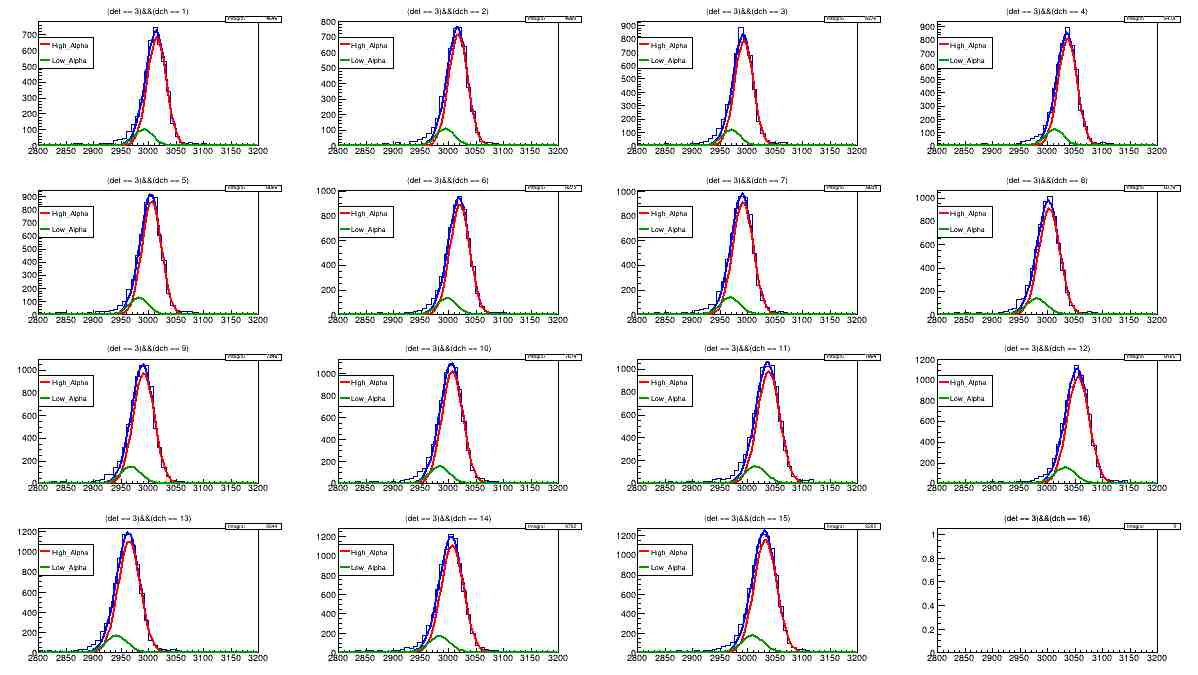
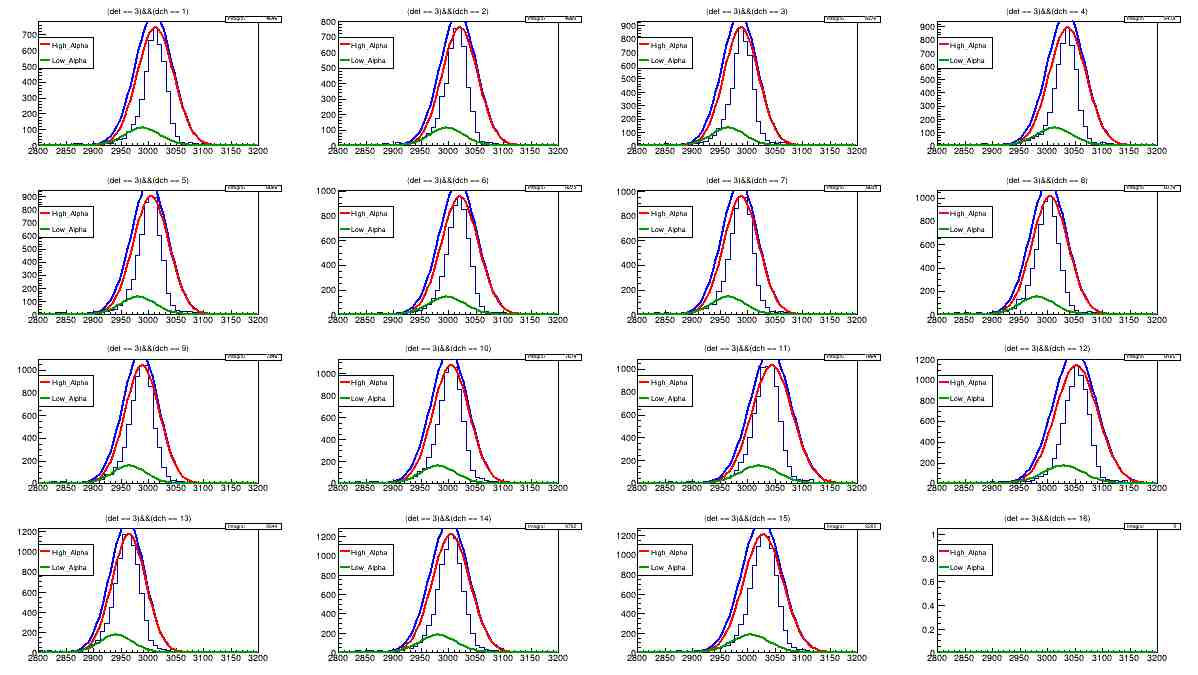
240815 v.7

diff --git a/prac_root/two_peak_240811.c b/prac_root/two_peak_240811.c
@@ -4,15 +4,28 @@ Double_t LowAlpha = 5.443; // [MeV]
 Double_t FxTwoAlpha(Double_t *xp, Double_t *par);
 void Convert2APParameters(double *par, double &mean1, double &sigma1, double &amplitude1, double &mean2, double &sigma2, double &amplitude2);
 
+struct TwoDoubles{
+	double a;
+	double b;
+};
+TwoDoubles MatrixOperation(double mean1, double mean2){
+	TwoDoubles result;
+	double a = (HighAlpha - LowAlpha)/ (mean1 - mean2);
+	double b = HighAlpha - mean1*a;
+	result.a = a;
+	result.b = b;		
+	return result;
+}	
 void two_peak_240811(){
-
+	std::cout << std::setprecision(30);
 
 	TFile *file = new TFile("RUN511.ch.root","read");
 	TTree *tree = (TTree *)file -> Get("channels");
 	
 	TFile *write = new TFile("constant.root","RECREATE");	
 	TTree *t1 = new TTree("t1","constants");
-	
+	fstream constant_file;
+	constant_file.open("constant.txt",ios::out);	
 	Double_t a,b;
 	Short_t detector,channel;
 	t1 -> Branch("a",&a,"a/D");
@@ -20,7 +33,6 @@ void two_peak_240811(){
 
 	t1 -> Branch("detector",&detector,"detector/S");
 	t1 -> Branch("channel",&channel,"channel/S");
-//	tree -> Print();	
 	for(auto det : {2,3,4}){
 			
 			double x1 = 1450;
@@ -58,8 +70,6 @@ void two_peak_240811(){
 				hist -> GetXaxis() -> SetLabelSize(0.065);	
 				hist -> GetYaxis() -> SetLabelSize(0.065);	
 				tree -> Draw(TString("adc>>")+name_of_hist,cut,"");								
-				if(hist -> GetEntries() == 0)
-					continue;	
 			//	TH1D *hist = (TH1D *)gPad -> GetPrimitive("htemp");	
 				
 				double amplitude = hist -> GetBinContent(hist -> GetMaximumBin());	
@@ -115,7 +125,7 @@ void two_peak_240811(){
 					}
 				}
 
-				if(det ==2 && dch == 24){
+				else if(det ==2 && dch == 24){
 					hist -> Fit(fit, "RN");
 				}
 				else{
@@ -143,40 +153,53 @@ void two_peak_240811(){
 				legend -> AddEntry(fit_peak2,"Low_Alpha","l");
 				legend -> Draw();
 				
-				TMatrixD A(2,2);
-				A(0,0) = mean1; A(0,1) = 1.0;
-				A(1,0) = mean2; A(1,1) = 1.0;
-
+		/*		TMatrixD A(2,2);
+				A(0,0) = mean1; A(0,1) = 1;
+				A(1,0) = mean2; A(1,1) = 1;
+				
 				TVectorD y(2);
-				y(0) = HighAlpha;
-				y(1) = LowAlpha;
-				Double_t DetA = A.Determinant();
-				if(DetA == 0 ){ 
-					a = -999.;
-					b = -999.;
+				y[0] = HighAlpha;
+				y[1] = LowAlpha;
+				cout <<(long double) A.Determinant() << endl;
+				
+				TDecompLU lu(A);
+				if(!lu.Decompose()){
+					cout << "not solvable" << endl;
+					a = -999;
+					b = -999;
 					cout << Form("det = %d dch = %d doesn't have the solution",det,dch) << endl;
 					detector = (Short_t)det;
 					channel = (Short_t)dch;
 					t1 -> Fill();
 				}
-				else{
-					TMatrixD A1(A);
-					A1(0,0)	= y(0);
-					A1(1,0) = y(1);
-					double DetA1 = (Double_t)A1.Determinant();
-				
-					TMatrixD A2(A);
-					A2(0,1)	= y(0);
-					A2(1,1) = y(1);
-					double DetA2 =(Double_t) A2.Determinant();
-					
-					a = (Double_t)DetA1 / DetA;
-					b = (Double_t)DetA2 / DetA;
-					detector = (Short_t)det;
-					channel = (Short_t)dch;
+				Bool_t ok;
+
+				TVectorD x = lu.Solve(y,ok);	
+				if(!lu.Solve(y,x)){
+					cout << det << " " << dch << "is " << "sigular. " << endl;
+					a= -999;
+					b = -999;
+					detector = det;
+					channel = dch;
 					t1 -> Fill();
-					cout << "b is " << b << endl;
+					
+					
+				}*/
+				TwoDoubles sol = MatrixOperation(mean1,mean2);
+				if(hist -> GetEntries() == 0){
+					a = -999;
+					b = -999;
 				}
+				else{
+					 a = sol.a;
+					 b = sol.b;
+				}		
+						
+				detector = (Short_t)det;
+				channel = (Short_t)dch;
+				t1 -> Fill();
+				constant_file << a <<" " << b << " " << det << " " << dch << endl;
+				
 			//	cout << det << " "<< dch << " " << mean1 << " " << sigma1 << " " << mean2 << " " << sigma2 << endl;
 		//		cout << mean1 / mean2 << " " << 5.486 / 5.443 << endl;
 		
@@ -190,7 +213,7 @@ void two_peak_240811(){
 	t1 -> Write();
 	t1 -> Print();
 	write -> Close();
-
+	constant_file.close();
 }
 
 
